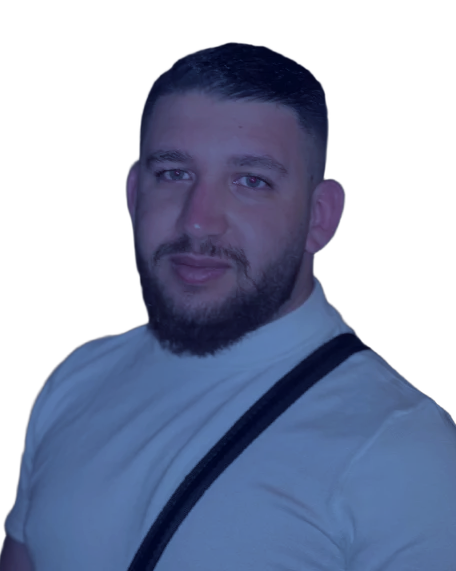
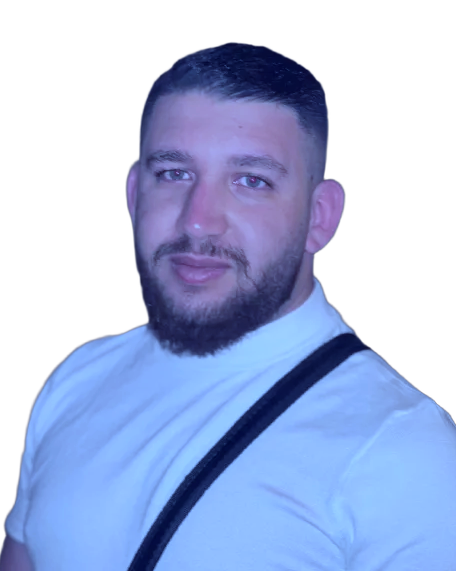
Brighten the portrait under the blue overlay.

diff --git a/src/content/site.js b/src/content/site.js
@@ -13,7 +13,7 @@ export const site = {
   linkedin: 'https://www.linkedin.com/in/majd-issa-a1aa8b262/',
   resumeUrl: '/resume.pdf',
   location: 'Israel, Haifa',
-  photoSrc: '/assets/portrait.png',
+  photoSrc: '/assets/portrait.png?v=2',
   bio: [
     'I am a Computer Science student at the University of Haifa (BSc, expected 2027). My primary interests lie in visual computing and real-time rendering.',
     'I build interactive graphics systems, including a C++/OpenGL ray-marching SDF editor with NPR stylization and Unity-based 3D combat prototypes. I also develop production mobile software: a Flutter platform for multi-stop delivery routing and a consumer storefront application backed by a custom API proxy and Supabase authentication.',

diff --git a/src/App.css b/src/App.css
@@ -257,7 +257,7 @@
 }
 
 .halftone-photo {
-  filter: contrast(1.05) saturate(1) brightness(0.71);
+  filter: contrast(1.06) saturate(1.04) brightness(1.08);
 }
 
 .btn {

diff --git a/scripts/process-portrait.py b/scripts/process-portrait.py
@@ -22,7 +22,7 @@ def grade_cyan(rgb: np.ndarray) -> np.ndarray:
     r = r * 0.76 + 5.0
     g = g * 0.79 + 12.0
     b = np.minimum(255.0, b * 0.86 + 32.0)
-    stacked = np.stack([r, g, b], axis=-1) * 0.84
+    stacked = np.stack([r, g, b], axis=-1) * 1.08
     return np.clip(stacked, 0, 255).astype(np.uint8)
 
 
@@ -65,8 +65,8 @@ def main() -> None:
     alpha = np.array(cutout)[..., 3]
     graded = grade_cyan(rgb)
     graded_img = Image.fromarray(np.dstack([graded, alpha]), mode="RGBA")
-    graded_img = ImageEnhance.Contrast(graded_img).enhance(1.1)
-    graded_img = ImageEnhance.Brightness(graded_img).enhance(0.88)
+    graded_img = ImageEnhance.Contrast(graded_img).enhance(1.08)
+    graded_img = ImageEnhance.Brightness(graded_img).enhance(1.14)
     graded_img = ImageEnhance.Color(graded_img).enhance(1.05)
     cropped = crop_to_subject(graded_img)
     OUT.parent.mkdir(parents=True, exist_ok=True)
